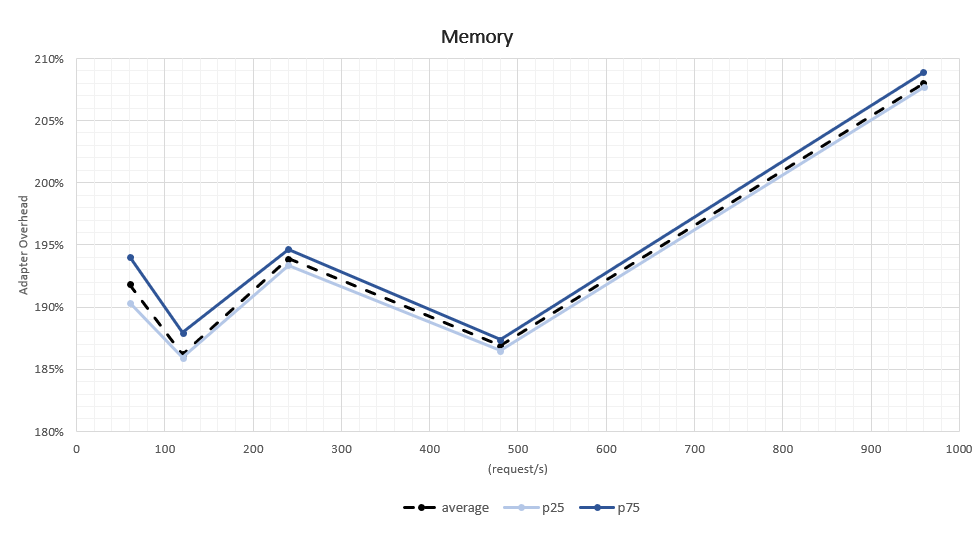
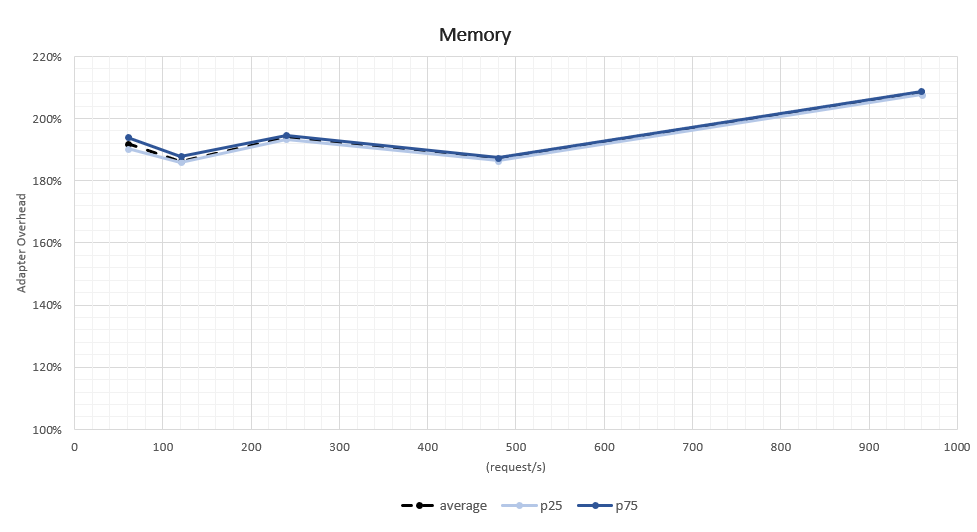
wip

diff --git a/Chapters/chapter9.tex b/Chapters/chapter9.tex
@@ -268,62 +268,77 @@ the test time for this experiment was set to 5 minutes for each data point.
 
 \paragraph{}
 
-The measured memory overhead of the adapter in this experiment is depicted in Figure ~\ref{fig:routMem}.
-It is expected for the overhead to increase linearly with the number of requests, the results obtained confirm our expectations.
+The utilized memory of the adapter and demo applications in this experiment is depicted in Figure ~\ref{fig:routMem}.
+It is expected for the used memory to increase linearly with the fraction of requests routed through the adapter, because as discussed previously,
+the adapter implementation spatial complexity is equivalent to double of the demo application implementation spatial complexity.
+The results obtained confirm our expectations.
+
+\paragraph{}
+
+Figure ~\ref{fig:routLatency} shows the request latency.
+In this experiment it is expected for the latency to steadily increase with the fraction of requests routed through the adapter, because of the same reasons previously stated.
+When we compare the first and last data points in Figure ~\ref{fig:routCpu}, we can see that the latency has doubled as expected.
+In the other data points, the latency remains relatively constant, this mainly due to the error introduced by the short test duration, we intend to repeat this test with a longer time window.
+
 
 
 \begin{figure}[htbp]
     \centering
     \includegraphics[height=3in]{Results/R/Cpu-R}
-    \caption{Adapter CPU cost in the routing experiment \\\hspace{\textwidth} 480 request/s (arrival rate) 100 bytes (payload size)}
+    \caption{CPU used in the routing experiment \\\hspace{\textwidth} 480 request/s (arrival rate) 100 bytes (payload size)}
     \label{fig:routCpu}
 \end{figure}
 
 \begin{figure}[htbp]
     \centering
     \includegraphics[height=3in]{Results/R/Memory-R}
-    \caption{Adapter Memory cost in the routing experiment \\\hspace{\textwidth} 480 request/s (arrival rate) 100 bytes (payload size)}
+    \caption{Memory used in the routing experiment \\\hspace{\textwidth} 480 request/s (arrival rate) 100 bytes (payload size)}
     \label{fig:routMem}
 \end{figure}
 
 \begin{figure}[htbp]
     \centering
     \includegraphics[height=3in]{Results/R/Latency-R}
-    \label{fig:gantt}
+    \caption{Request latency in the routing experiment \\\hspace{\textwidth} 480 request/s (arrival rate) 100 bytes (payload size)}
+    \label{fig:routLatency}
 \end{figure}
 
 \newpage
 
-
+\begin{figure}[htbp]
+    \centering
+    \includegraphics[height=2.4in]{bipartExperiment}
+    \caption{bi-partition experiment}
+    \label{fig:biPart}
+\end{figure}
 
 \paragraph{Bi-partition}
 
-Objective:
-Measure Overhead
-Measure Consumed Resources
-Measure Scalability
+The topology of this experiment is represent in Figure ~\ref{fig:biPart}.
+This experiment is composed by two disjoint sets of microservices, where the first set receives request from the artillery workers and forward the requests to the second of microservices.
+We first established a baseline of comparison by doing the tests without the adapter.
+Then we upgraded all the microservices in the second set and added adapters to support communication across the disjoint sets.
+The goal of this experiment was to see if the conclusions obtained from the point-to-point experiment are also applicable in scenarios with multiple microservices.
+
+The outcomes of the "point-to-point" and "bi-partition" experiments are equivalent, as seen in the Figures ~\ref{fig:biPartCPU}, ~\ref{fig:biPartMem} and ~\ref{fig:biPartLatency}.
 
 \begin{figure}[htbp]
     \centering
-    \includegraphics[height=2.7in]{bipartExperiment}
-    \caption{bi-partition experiment}
-    \label{fig:gantt}
+    \includegraphics[height=3in]{Results/Bp/Cpu-Bp}
+    \caption{Adapter CPU overhead in the bi-partition experiment \\\hspace{\textwidth} 100 bytes (payload size)}
+    \label{fig:biPartCPU}
 \end{figure}
 
 \begin{figure}[htbp]
     \centering
-    \includegraphics[height=4in]{Results/Bp/Cpu-Bp}
-    \label{fig:gantt}
-\end{figure}
-
-\begin{figure}[htbp]
-    \centering
-    \includegraphics[height=4in]{Results/Bp/Memory-Bp}
-    \label{fig:gantt}
+    \includegraphics[height=3in]{Results/Bp/Memory-Bp}
+    \caption{Adapter memory overhead in the bi-partition experiment \\\hspace{\textwidth} 100 bytes (payload size)}
+    \label{fig:biPartMem}
 \end{figure}
 
 \begin{figure}[htbp]
     \centering
     \includegraphics[height=3in]{Results/Bp/Latency-Bp}
-    \label{fig:gantt}
+    \caption{Adapter latency overhead in the bi-partition experiment \\\hspace{\textwidth} 100 bytes (payload size)}
+    \label{fig:biPartLatency}
 \end{figure}
